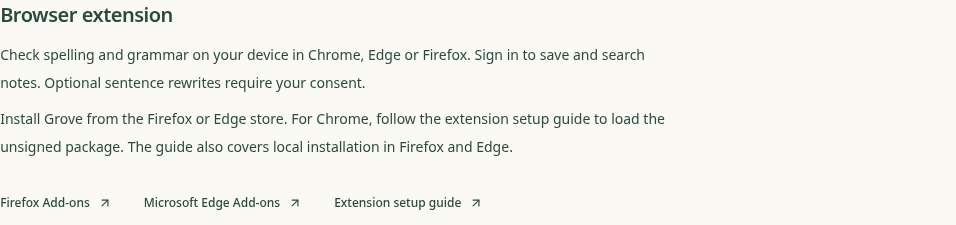
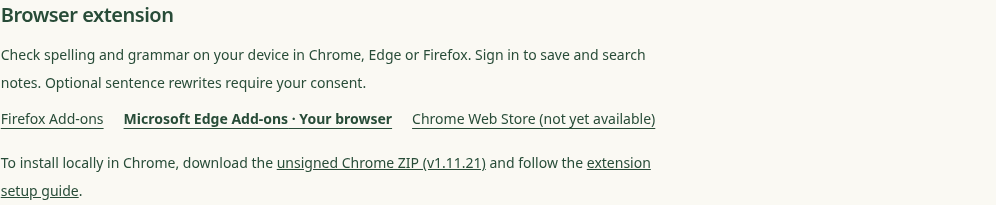
fix(website): surface direct extension links in setup and connections

diff --git a/packages/website/src/app/(marketing)/install/page.tsx b/packages/website/src/app/(marketing)/install/page.tsx
@@ -1,6 +1,7 @@
 import { ArrowUpRight } from "lucide-react";
 import { connection } from "next/server";
 import { Installation } from "@/components/installation";
+import { ExtensionStoreLinks } from "@/components/extension-store-links";
 import { pageMetadata } from "@/lib/metadata";
 import { site } from "@/lib/site";
 
@@ -23,14 +24,18 @@ export default async function InstallPage() {
         </p>
         <nav className="setup-jump" aria-label="Setup options">
           <a href="#ai-tools">AI tool setup</a>
-          <a href="#extension-heading">Browser extension setup</a>
+          <a href="#browser-extension">Browser extension setup</a>
         </nav>
       </header>
       <section aria-labelledby="ai-tools" className="setup-tools">
         <h2 id="ai-tools">Connect an AI tool</h2>
         <Installation />
       </section>
-      <section className="setup-reference" aria-labelledby="extension-heading">
+      <section
+        id="browser-extension"
+        className="setup-reference"
+        aria-labelledby="extension-heading"
+      >
         <h2
           id="extension-heading"
           className="text-xl font-semibold tracking-tight"
@@ -42,35 +47,24 @@ export default async function InstallPage() {
           Sign in to save and search notes. Optional sentence rewrites require
           your consent.
         </p>
+        <ExtensionStoreLinks />
         <p className="mt-2 max-w-2xl text-sm leading-7">
-          Install Grove from the Firefox or Edge store. For Chrome, follow the
-          extension setup guide to load the unsigned package. The guide also
-          covers local installation in Firefox and Edge.
+          To install locally in Chrome, download the{" "}
+          <a
+            className="underline"
+            href="https://github.com/miniaxolotl/grove/releases/download/v1.11.21/grove-chrome.zip"
+          >
+            unsigned Chrome ZIP (v1.11.21)
+          </a>{" "}
+          and follow the{" "}
+          <a
+            className="underline"
+            href="https://github.com/miniaxolotl/grove/blob/HEAD/documentation/browser-extension.md"
+          >
+            extension setup guide
+          </a>
+          .
         </p>
-        <div className="mt-5 flex flex-wrap gap-x-8 gap-y-2">
-          {[
-            {
-              label: "Firefox Add-ons",
-              href: "https://addons.mozilla.org/en-US/firefox/addon/grove-private-notes/",
-            },
-            {
-              label: "Microsoft Edge Add-ons",
-              href: "https://microsoftedge.microsoft.com/addons/detail/epmjpecpdnjbgbjnjkfjafonocecffmo",
-            },
-            {
-              label: "Extension setup guide",
-              href: "https://github.com/miniaxolotl/grove/blob/HEAD/documentation/browser-extension.md",
-            },
-          ].map(({ label, href }) => (
-            <a
-              key={label}
-              href={href}
-              className="inline-flex min-h-11 items-center gap-2 text-xs font-medium text-leaf hover:underline"
-            >
-              {label} <ArrowUpRight size={14} />
-            </a>
-          ))}
-        </div>
       </section>
       <section className="setup-reference" aria-labelledby="next-heading">
         <h2 id="next-heading" className="text-xl font-medium tracking-tight">

diff --git a/packages/website/tests/extension-store-links.spec.ts b/packages/website/tests/extension-store-links.spec.ts
@@ -1,0 +1,79 @@
+import { expect, test } from "@playwright/test";
+
+const connections = `http://127.0.0.1:${process.env.DASHBOARD_TEST_PORT || 3101}/app/settings/connections`;
+const install = "/install#browser-extension";
+const stores = [
+  "https://addons.mozilla.org/firefox/addon/grove-private-notes/",
+  "https://microsoftedge.microsoft.com/addons/detail/epmjpecpdnjbgbjnjkfjafonocecffmo",
+  "https://chromewebstore.google.com/detail/ghcndbpbnocjiefnbikdoakajemflcaa",
+];
+
+for (const [name, ua, brand, expected, width] of [
+  ["Edge", "Windows NT Chrome/156.0 Edg/156.0", "Chromium", 1, 1280],
+  ["Chrome", "Windows NT Chrome/156.0", "Google Chrome", 2, 1280],
+  ["Firefox", "X11 Firefox/159.0", "", 0, 1280],
+  ["unbranded Chromium", "X11 Chrome/156.0", "Chromium", -1, 1280],
+  ["unsupported Firefox", "X11 Firefox/141.0", "", -1, 1280],
+  ["mobile", "Android Chrome/156.0 Mobile", "Google Chrome", -1, 320],
+  ["iPhone", "iPhone Mobile Safari", "", -1, 390],
+] as const) {
+  test(`${name}: Install and Connections keep direct store choices`, async ({
+    page,
+  }) => {
+    await page.setViewportSize({ width, height: 800 });
+    await page.addInitScript(
+      ({ ua, brand }) => {
+        Object.defineProperty(navigator, "userAgent", { value: ua });
+        Object.defineProperty(navigator, "userAgentData", {
+          value: { brands: [{ brand }] },
+        });
+      },
+      { ua, brand },
+    );
+    await page.route("**/api/grove/**", (route) =>
+      route.fulfill({ json: { success: true, data: [] } }),
+    );
+    await page.goto("/writing");
+    await page
+      .getByRole("link", { name: "browser extension", exact: true })
+      .press("Enter");
+    await expect(page).toHaveURL(new RegExp(`${install}$`));
+    for (const url of [install, connections]) {
+      if (url === connections) await page.goto(url);
+      const links = page
+        .getByRole("list", { name: "Browser extension stores" })
+        .getByRole("link");
+      await expect(links).toHaveCount(3);
+      await expect(links.nth(2)).toContainText("not yet available");
+      if (expected !== -1)
+        await expect(links.nth(expected)).toContainText("Your browser");
+      await expect(links.filter({ hasText: "Your browser" })).toHaveCount(
+        expected === -1 ? 0 : 1,
+      );
+      await links.first().focus();
+      for (const [index, href] of stores.entries()) {
+        const link = links.nth(index);
+        await expect(link).toBeFocused();
+        await expect(link).toHaveAttribute("href", href);
+        await expect(link).toBeInViewport({ ratio: 1 });
+        if (index < 2) await page.keyboard.press("Tab");
+      }
+    }
+  });
+}
+
+test("without JavaScript, Install serves three neutral store choices", async ({
+  browser,
+  baseURL,
+}) => {
+  const page = await browser.newPage({
+    baseURL,
+    javaScriptEnabled: false,
+    userAgent: "X11 Firefox/159.0",
+  });
+  await page.goto(install);
+  const list = page.getByRole("list", { name: "Browser extension stores" });
+  await expect(list.getByRole("link")).toHaveCount(3);
+  await expect(list).not.toContainText("Your browser");
+  await page.close();
+});

diff --git a/packages/website/src/components/extension-store-links.tsx b/packages/website/src/components/extension-store-links.tsx
@@ -1,0 +1,76 @@
+"use client";
+
+import { useSyncExternalStore } from "react";
+
+const stores = [
+  [
+    "firefox",
+    "Firefox Add-ons",
+    "https://addons.mozilla.org/firefox/addon/grove-private-notes/",
+  ],
+  [
+    "edge",
+    "Microsoft Edge Add-ons",
+    "https://microsoftedge.microsoft.com/addons/detail/epmjpecpdnjbgbjnjkfjafonocecffmo",
+  ],
+  [
+    "chrome",
+    "Chrome Web Store (not yet available)",
+    "https://chromewebstore.google.com/detail/ghcndbpbnocjiefnbikdoakajemflcaa",
+  ],
+] as const;
+
+// Marketing and Settings share the same neutral HTML. Only mark a store when
+// the browser identifies itself, not merely its underlying Chromium engine.
+function desktopBrowser() {
+  const ua = navigator.userAgent;
+  const hints = (
+    navigator as Navigator & {
+      userAgentData?: { mobile: boolean; brands: { brand: string }[] };
+    }
+  ).userAgentData;
+  if (
+    hints?.mobile ||
+    /Android|Mobile|iPad|iPhone/i.test(ua) ||
+    !/Windows NT|Macintosh|X11|CrOS/.test(ua) ||
+    (/Macintosh/.test(ua) && navigator.maxTouchPoints > 1)
+  )
+    return null;
+  if (Number(ua.match(/\bEdg\/(\d+)/)?.[1]) >= 127) return "edge";
+  if (Number(ua.match(/\bFirefox\/(\d+)(?:\.\d+)*$/)?.[1]) >= 142)
+    return "firefox";
+  if (
+    Number(ua.match(/\bChrome\/(\d+)/)?.[1]) >= 127 &&
+    hints?.brands.some(({ brand }) => brand === "Google Chrome")
+  )
+    return "chrome";
+  return null;
+}
+
+const subscribe = () => () => {};
+const neutral = () => null;
+
+export function ExtensionStoreLinks() {
+  const detected = useSyncExternalStore(subscribe, desktopBrowser, neutral);
+  return (
+    <ul
+      aria-label="Browser extension stores"
+      className="flex flex-wrap gap-x-5 text-sm"
+    >
+      {stores.map(([browser, label, href]) => (
+        <li key={href}>
+          <a
+            className="inline-flex min-h-11 items-center underline underline-offset-4"
+            href={href}
+          >
+            {detected === browser ? (
+              <strong>{label} · Your browser</strong>
+            ) : (
+              label
+            )}
+          </a>
+        </li>
+      ))}
+    </ul>
+  );
+}

diff --git a/packages/website/src/components/dashboard/connections.tsx b/packages/website/src/components/dashboard/connections.tsx
@@ -13,6 +13,7 @@ import { useWorkspaceApi, useWorkspaceCache } from "./workspace-cache";
 import { Dialog } from "./dialog";
 import { LoadError } from "./load-error";
 import { AgentSetup } from "@/components/installation";
+import { ExtensionStoreLinks } from "@/components/extension-store-links";
 import { Button } from "./ui/button";
 import { Disclosure } from "./ui/disclosure";
 import { useNotebooks } from "./notebooks-provider";
@@ -127,6 +128,12 @@ export function Connections({ origin }: { origin: string }) {
       <p className="settings-section-description">
         Choose which notes each connection can read, save or delete.
       </p>
+      <section className="mb-4" aria-labelledby="get-browser-extension">
+        <h3 id="get-browser-extension" className="text-sm font-semibold">
+          Get the browser extension
+        </h3>
+        <ExtensionStoreLinks />
+      </section>
       <details className="connection-setup">
         <summary>
           <Plug size={17} />

diff --git a/packages/website/src/app/(marketing)/writing/page.tsx b/packages/website/src/app/(marketing)/writing/page.tsx
@@ -17,6 +17,13 @@ export default function WritingPage() {
         and isn’t saved.
       </p>
       <GuestWritingCheck />
+      <p>
+        Check writing on other sites with the{" "}
+        <Link className="text-link" href="/install#browser-extension">
+          browser extension
+        </Link>
+        .
+      </p>
       <section
         className="guest-writing-account"
         aria-labelledby="guest-account-heading"

diff --git a/packages/website/tests/website.spec.ts b/packages/website/tests/website.spec.ts
@@ -196,7 +196,7 @@ test("mobile setup links lead to the browser extension and AI tools", async ({
   });
   await expect(extension).toBeInViewport({ ratio: 1 });
   await extension.press("Enter");
-  await expect(page).toHaveURL(/#extension-heading$/);
+  await expect(page).toHaveURL(/#browser-extension$/);
   await expect(
     page.getByRole("heading", { name: "Browser extension", exact: true }),
   ).toBeInViewport();

diff --git a/packages/website/src/app/(marketing)/page.tsx b/packages/website/src/app/(marketing)/page.tsx
@@ -73,7 +73,7 @@ export default async function HomePage() {
                 </Link>
               </li>
               <li>
-                <Link href="/install#extension-heading" className="text-link">
+                <Link href="/install#browser-extension" className="text-link">
                   Browser extension setup
                 </Link>
               </li>

diff --git a/documentation/browser-extension.md b/documentation/browser-extension.md
@@ -1,8 +1,13 @@
 # Browser extension
 
-Install Grove from [Firefox Add-ons](https://addons.mozilla.org/en-US/firefox/addon/grove-private-notes/)
+Install Grove from [Firefox Add-ons](https://addons.mozilla.org/firefox/addon/grove-private-notes/)
 or [Microsoft Edge Add-ons](https://microsoftedge.microsoft.com/addons/detail/epmjpecpdnjbgbjnjkfjafonocecffmo).
-For Chrome, use the unsigned local package described below. Local packages are
+The [Chrome Web Store item](https://chromewebstore.google.com/detail/ghcndbpbnocjiefnbikdoakajemflcaa)
+is not yet publicly available. For local setup, download the unsigned Chrome ZIP
+from the [install page](https://usegrove.cloud/install#browser-extension) or build from source.
+Install and Settings → Connections show all three official items. On a recognized
+desktop browser the matching link is marked **Your browser**; this does not change
+its availability or redirect you. Local packages are
 also available for Firefox and Edge. The
 [design](design/browser-extension.md) retains the release requirements and deferred scope.
 
@@ -29,7 +34,7 @@ Download availability alone is not server rollout or signing acceptance; see
 [release downloads](release-conventions.md#release-downloads).
 
 - **Chrome:** open `chrome://extensions`, enable Developer mode, choose **Load
-  unpacked** and select the extracted `chrome/` directory.
+  unpacked** and select the directory containing the extracted `manifest.json`.
 - **Edge:** open `edge://extensions`, enable Developer mode, choose **Load unpacked**
   and select the extracted `edge/` directory.
 - **Firefox:** open `about:debugging#/runtime/this-firefox`, choose **Load Temporary

diff --git a/documentation/design/screenshots/product-redesign/README.md b/documentation/design/screenshots/product-redesign/README.md
@@ -76,8 +76,10 @@ pricing page deliberately has no decorative media or scroll animation. The maint
 separate writing, approval, activation and save/recall verification. Evidence is local source/fixture qualification,
 not billing activation, provider evaluation or production deployment.
 
-The [extension install options](extension-install-options.png) capture shows the
-Firefox and Edge store links beside the unsigned package guide on `/install`.
-Captured from the local website build with the install-copy fix based on
-`3001fd90`, signed out in Chromium at 1024 × 768, cropped to the extension
-section. It shows the available paths, not a completed browser installation.
+The [Install section](extension-install-options.png) shows all three store links,
+the Chrome availability label and the separate unsigned ZIP. The [Connections
+section](extension-connections-390.png) shows the same links in Settings.
+Captured from the local website build and synthetic signed-in fixture based on
+`40815f99`, cropped to the extension sections: Chromium at 1280 × 800 with an
+Edge desktop identity and at 390 × 844 with a mobile identity. The captures
+show link discovery, not installation or native browser acceptance.
